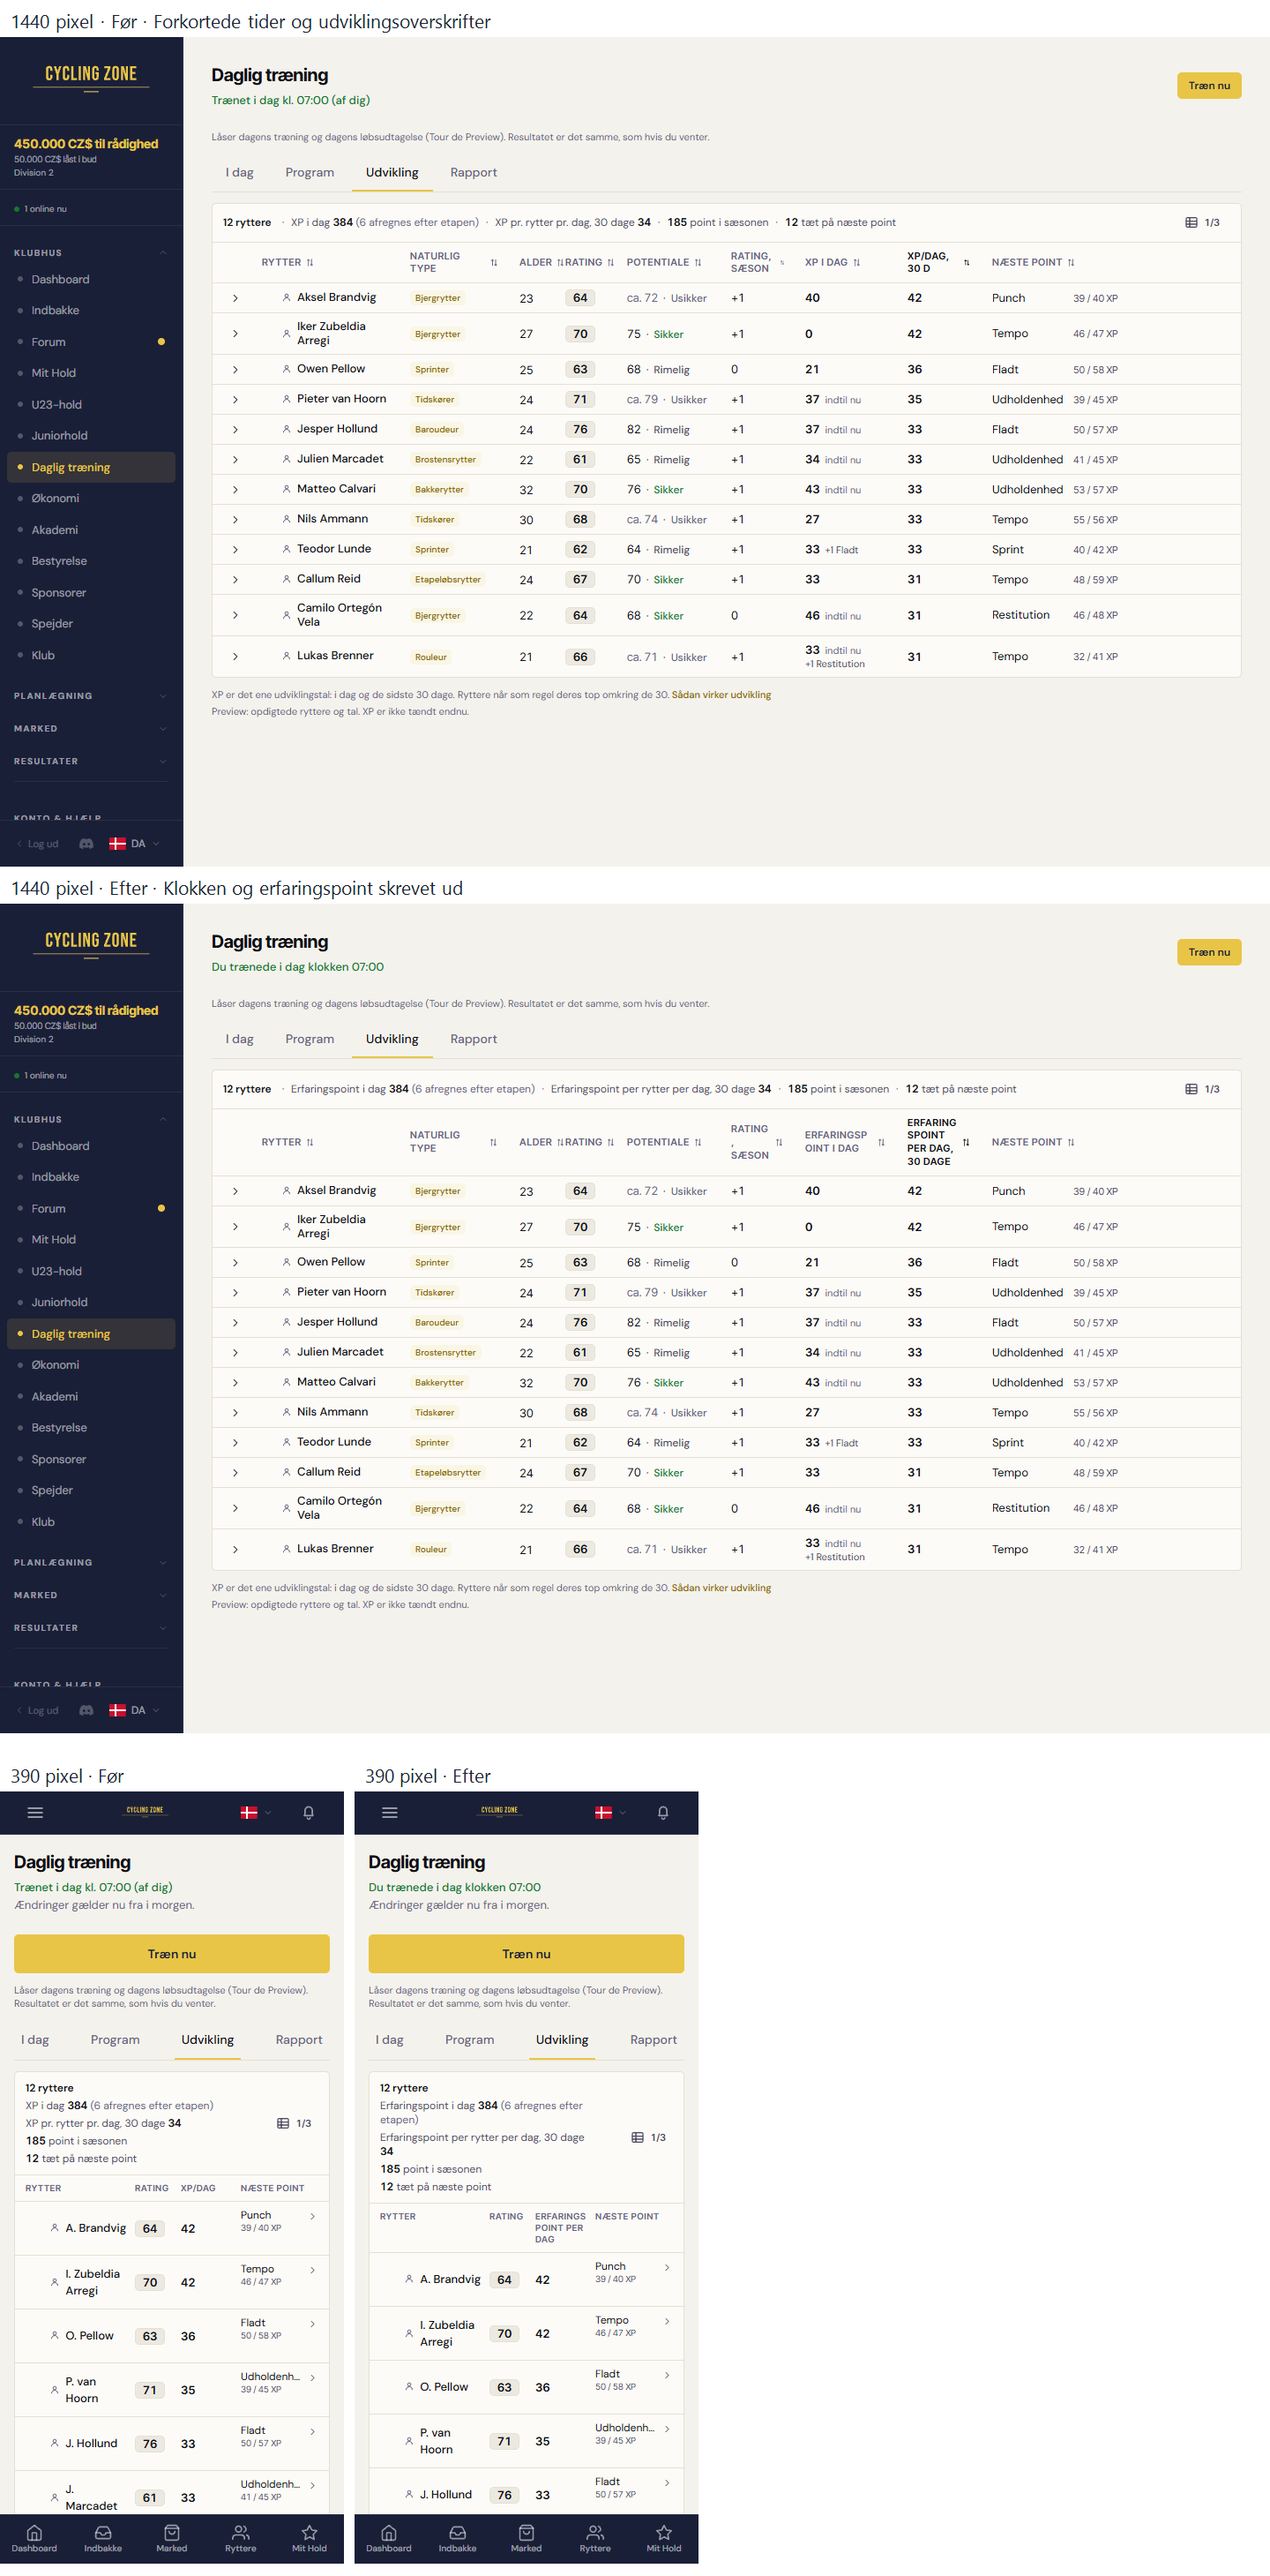
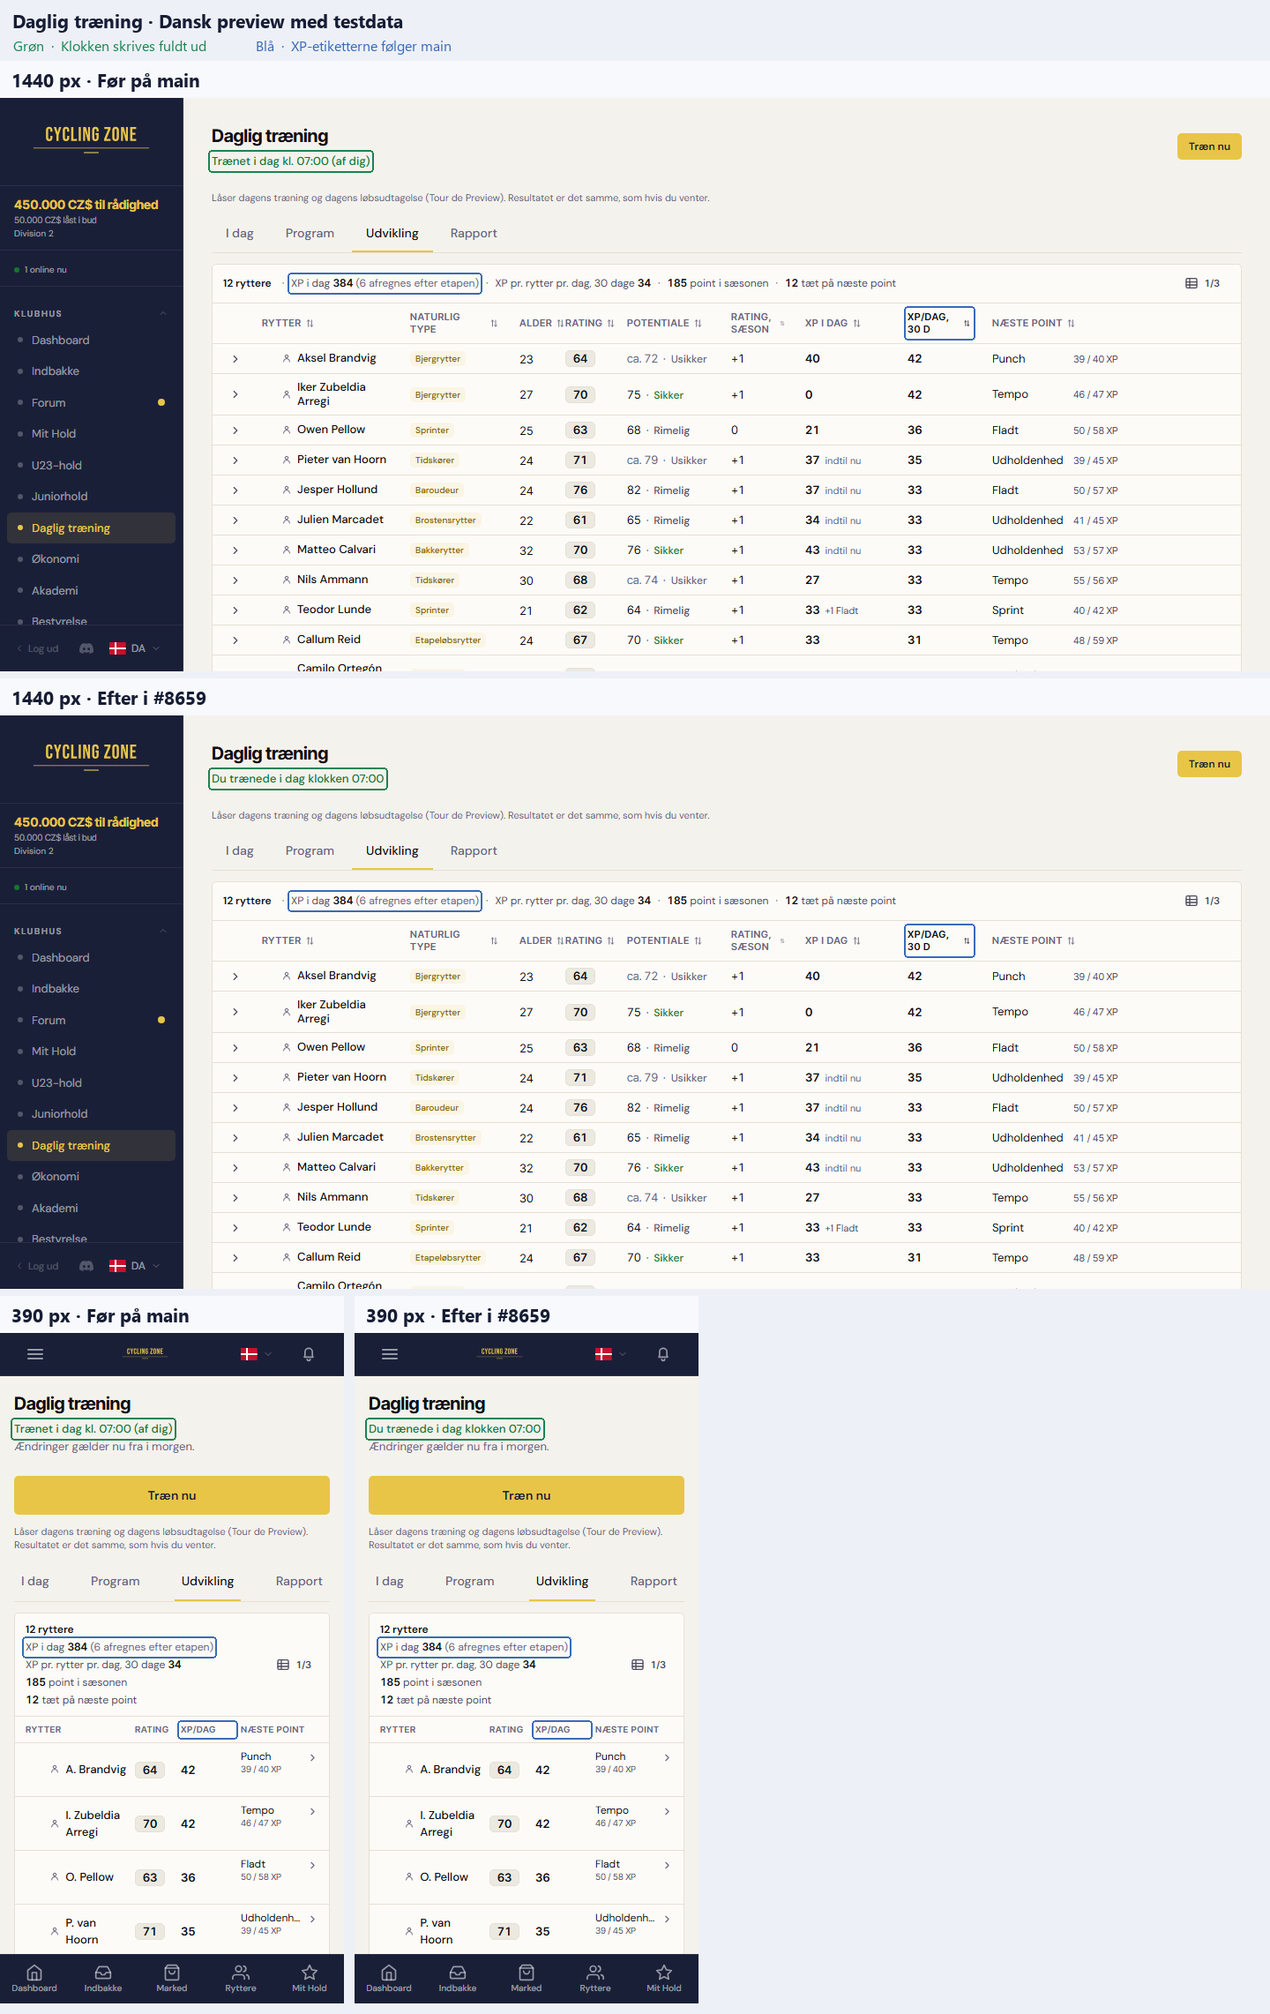
fix(training): retain XP and ability abbreviations (Refs #8651)

diff --git a/frontend/src/components/training/DevelopmentTabXp.tsx b/frontend/src/components/training/DevelopmentTabXp.tsx
@@ -209,14 +209,13 @@ function TitleLine({ summary }: { summary: ReturnType<typeof devSummary> }) {
   );
 }
 
-/** `wrap`: allow a long label to wrap within a narrow number column. */
+/** `wrap`: a two-word label may break onto a second line instead of widening a narrow number column. */
 function SortHead({ k, label, title, wrap = false, className = "", sort, onSort }: { k: SortKey; label: string; title?: string; wrap?: boolean; className?: string; sort: SortState; onSort: (k: SortKey) => void }) {
   const active = sort.key === k;
   return (
     <th className={`px-3 py-2 text-start ${HEAD} ${className}`} aria-sort={active ? (sort.dir === 1 ? "ascending" : "descending") : undefined}>
-      <button type="button" onClick={() => onSort(k)} title={title} className={`inline-flex items-center gap-1 text-start uppercase hover:text-cz-1 ${wrap ? "max-w-full" : "whitespace-nowrap"} ${active ? "text-cz-1" : ""}`}>
-        <span className={wrap ? "min-w-0 hyphens-auto wrap-anywhere" : undefined}>{label}</span>
-        <SortIcon size={11} className="shrink-0" aria-hidden="true" />
+      <button type="button" onClick={() => onSort(k)} title={title} className={`inline-flex items-center gap-1 text-start uppercase hover:text-cz-1 ${wrap ? "" : "whitespace-nowrap"} ${active ? "text-cz-1" : ""}`}>
+        {label}<SortIcon size={11} aria-hidden="true" />
       </button>
     </th>
   );
@@ -412,7 +411,7 @@ function DesktopTable({ rows, open, toggle, sort, onSort, columns, onChangeFocus
           <SortHead k="top" label={t("developmentXp.colTop")} className="w-[118px]" sort={sort} onSort={onSort} />
           <SortHead k="season" label={t("developmentXp.colRatingSeason")} title={t("developmentXp.ratingSeasonTitle")} wrap className="w-[84px]" sort={sort} onSort={onSort} />
           {show30 && <SortHead k="rating30" label={t("developmentXp.colRating30")} title={t("developmentXp.rating30Title")} wrap className="w-[84px]" sort={sort} onSort={onSort} />}
-          <SortHead k="xpToday" label={t("developmentXp.colXpToday")} wrap className="w-[116px]" sort={sort} onSort={onSort} />
+          <SortHead k="xpToday" label={t("developmentXp.colXpToday")} className="w-[116px]" sort={sort} onSort={onSort} />
           <SortHead k="xp30" label={t("developmentXp.colXp30")} wrap className="w-[96px]" sort={sort} onSort={onSort} />
           <SortHead k="next" label={t("developmentXp.colNext")} sort={sort} onSort={onSort} />
         </tr>
@@ -471,7 +470,7 @@ function PhoneList({ rows, open, toggle, columns, onChangeFocus }: { rows: DevRo
   return (
     <div data-testid="development-xp-list">
       <div className={`grid gap-2 border-b border-cz-border px-3 py-2 ${PHONE_GRID} ${HEAD} text-3xs`}>
-        <span>{t("colRider")}</span><span>{t("developmentXp.colRating")}</span><span className="hyphens-auto wrap-anywhere">{t("developmentXp.colXp30Short")}</span><span>{t("developmentXp.colNext")}</span>
+        <span>{t("colRider")}</span><span>{t("developmentXp.colRating")}</span><span>{t("developmentXp.colXp30Short")}</span><span>{t("developmentXp.colNext")}</span>
       </div>
       <ul>
         {rows.map((row) => {
